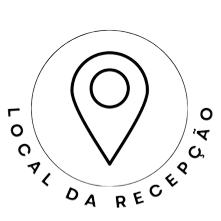
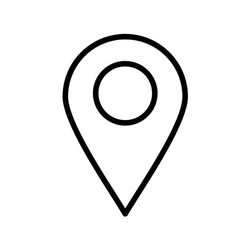
Aprimoramento dos botões

diff --git a/index.html b/index.html
@@ -44,14 +44,23 @@
     <button id="botao" class="click" onclick="toogleMode()">Open</button>
   </div>
   <div id="button-links">
-    <a href="#maps">
-      <img class="imgLinks" src="./assets/images/icone-local.png" alt="ícone de localização">
-    </a>
-    <a href="https://wa.me/5571993232877?text=Eu%20confirmo%20presença!" target="_blank">
-      <img class="imgLinks" src="./assets/images/icone-whats.png" alt="ícone do whatsapp"></a>
-    <a href="#">
-      <img class="imgLinks" src="./assets/images/icone-presente.png" alt="ícone de presentes">
-    </a>
+    <div class="img-back">
+      <a href="#maps">
+        <img class="imgBk" src="./assets/images/2-removebk.png" alt="texto">
+        <img class="imgLinks" src="./assets/images/icone-local.png" alt="ícone de localização">
+      </a>
+    </div>
+    <div class="img-back">
+      <a href="https://wa.me/5571993232877?text=Eu%20confirmo%20presença!" target="_blank">
+        <img class="imgBk" src="./assets/images/1-removebk.png" alt="texto">
+        <img class="imgLinks" src="./assets/images/icone-whats.png" alt="ícone do whatsapp"></a>
+    </div>
+    <div class="img-back">
+      <a href="#">
+        <img class="imgBk" src="./assets/images/3-removebk.png" alt="texto">
+        <img class="imgLinks" src="./assets/images/icone-presente.png" alt="ícone de presentes">
+      </a>
+    </div>
   </div>
   <div class="container">
       <h2>Falta pouco para o grande dia...</h2>

diff --git a/assets/css/style.css b/assets/css/style.css
@@ -206,7 +206,7 @@ body {
   #button-links {
     display: var(--displayCountdown);
     position: relative;
-    top: 50px;
+    top: 25px;
     justify-content: center;
     padding: 45px 0;
     font-size: 15px;
@@ -220,18 +220,30 @@ body {
     padding: 5px;
     border-radius: 50%;
     transition: background 0.2s;
-
-}
-
-#button-links a:hover {
+  }
+  
+  #button-links a:hover {
     background: rgba(0, 0, 0, 0.1);
-}
+  }
+  
+  .img-back {
+    position: relative;
+  }
 
-.imgLinks {
-  width: 86px;
-  height: 86px;
-  border-radius: 50%;
-}
+  .imgBk {
+    width: 90px;
+    height: 90px;
+  }
+
+  .imgLinks {
+    position: absolute;
+    z-index: 1;
+    width: 55px;
+    height: 55px;
+    border-radius: 50%;
+    box-shadow: 2px 2px 4px rgba(0, 0, 0, 0.582);
+    border: 1px solid rgba(0, 0, 0, 0.35);
+  }
   
   #countdow-container {
     display: var(--displayCountdown);
